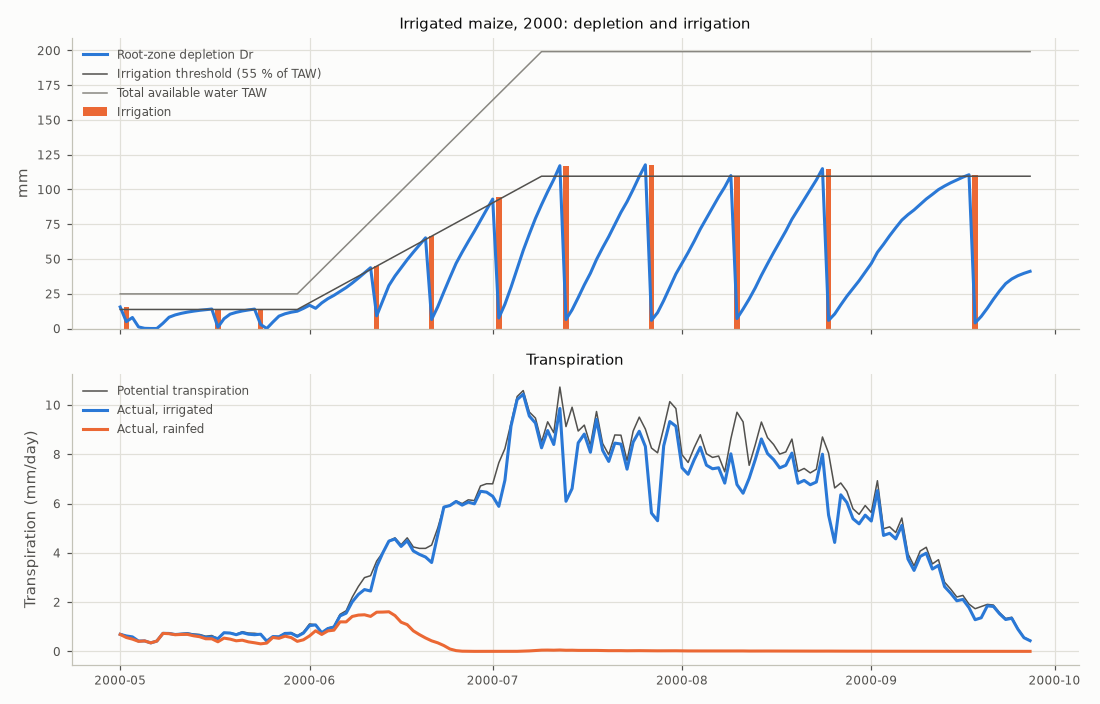
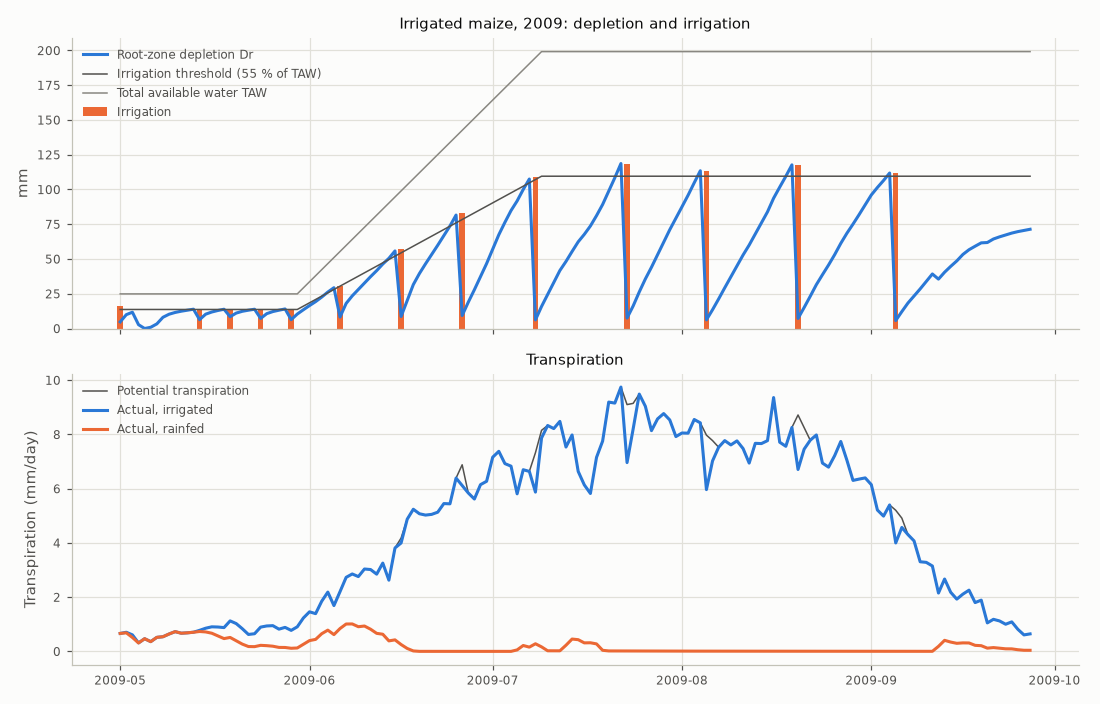
Regenerate the water balance and yield reports with the new field model
- Yield: irrigated relative yield 0.95 (06: 0.83); the remaining loss is
  oxygen stress just after irrigation. The report's explanation now
  follows the field model's settings.
- Water balance: irrigated transpiration 709 mm, soil evaporation 169 mm,
  irrigation 824 mm; a perfect rain forecast now saves 15 mm a season.
- The NWP report no longer says a perfect forecast saves no water.

diff --git a/fao_model/yield_report.py b/fao_model/yield_report.py
@@ -22,7 +22,7 @@ from . import data as weather_data
 from . import yield_response as yr
 from .crop import Crop, adjust_for_climate
 from .et import asce_pm
-from .field import FieldModel
+from .field import IRRIGATION_RATE, FieldModel
 from .plotting import CATEGORICAL, INK_2, MUTED, SERIES, SURFACE, style
 from .water_balance import SCENARIOS, run_field
 
@@ -257,14 +257,14 @@ def main(argv=None):
         "",
         f"- **Just after irrigation.** Irrigation days and the day after make up {s['day_share']:.0%} "
         f"of the season but {s['deficit_share']:.0%} of the transpiration deficit: Ta/Tp is "
-        f"{s['ratio_near']:.2f} on those days against {s['ratio_other']:.2f} on the others. The "
-        "whole refill is applied in one day, which wets the top layers above "
-        f"{crop.feddes_h2:g} cm, where the Feddes function reduces uptake for lack of oxygen.",
-        f"- **Before irrigation.** At high demand, uptake starts to fall once the head drops below "
-        f"{crop.feddes_h3_high:g} cm, which in this soil is {h3_depletion:.0%} depletion, close to the "
-        f"{crop.p:.0%} trigger. The "
-        "top of the root zone, where most roots are, dries faster than the root-zone average, and "
-        "uptake lost there is not made up from wetter, deeper layers.",
+        f"{s['ratio_near']:.2f} on those days against {s['ratio_other']:.2f} on the others. The refill "
+        f"({IRRIGATION_RATE:g} mm/hour) wets the top layers above {crop.feddes_h2:g} cm, where the "
+        "Feddes function reduces uptake for lack of oxygen.",
+        f"- **Between irrigations.** At high demand, the Feddes function lowers uptake below "
+        f"{crop.feddes_h3_high:g} cm, which in this soil is {h3_depletion:.0%} depletion, before the "
+        f"{crop.p:.0%} trigger. The top of the root zone, where most roots are, dries first; uptake is "
+        f"compensated from wetter layers until the root zone's stress index falls below ωc = "
+        f"{crop.omega_c:g} ([field model report](../field_model/README.md)).",
         "",
         "The irrigated field run again without oxygen stress (Feddes h1 = h2 = 0 cm) shows how much "
         "of the loss comes from it:",
@@ -281,8 +281,8 @@ def main(argv=None):
                      f"{np.mean([season_sum(name, y, 'irrigation') for y in years]):.0f} | {relative:.2f} |")
     lines += [
         "",
-        "Both causes are properties of the field model rather than of the yield response: a daily time "
-        "step with the whole refill on one day, and root water uptake without compensation.",
+        "How the field model's root uptake and irrigation settings change these numbers is shown in "
+        "the [field model report](../field_model/README.md).",
         "",
         "## 3. Yield and water productivity",
         "",

diff --git a/fao_model/nwp_skill.py b/fao_model/nwp_skill.py
@@ -298,9 +298,9 @@ def main(argv=None):
     lines += [
         "## 5. What this means for irrigation",
         "",
-        "The water balance report (section 6) found that even a perfect 3-day rain forecast saves no "
-        "irrigation water at this site in the maize season, because rain is rare then. Better forecasts "
-        "cannot beat that bound, so the irrigation rule is not rerun with these models.",
+        "The water balance report (section 6) found that even a perfect 3-day rain forecast saves little "
+        "irrigation water at this site in the maize season (about 2 %), because rain is rare then. Better "
+        "forecasts cannot beat that bound, so the irrigation rule is not rerun with these models.",
         "",
     ]
     (out / "README.md").write_text("\n".join(lines), encoding="utf-8")

diff --git a/reports/water_balance/README.md b/reports/water_balance/README.md
@@ -1,12 +1,12 @@
 # Crop water balance: grain maize
 
-Generated by `python -m fao_model.water_balance` on 2026-10-13.
+Generated by `python -m fao_model.water_balance` on 2026-11-12.
 
 - Weather: Konya Plain (Cumra), Turkiye, 1995-01-01 to 2024-12-31 (30 seasons); reference ET from this repo's daily ASCE-PM.
 - Crop: grain maize planted on 01 May, stages 30/40/50/30 days, Kcb 0.15/1.236/0.15 (mid-season value adjusted to the site's wind and humidity, FAO-56 eq. 70), roots 0.15-1.2 m, height up to 2.0 m.
 - Soil: loam (van Genuchten), 1.5 m column in 2.5 cm layers, free drainage at the bottom. Field capacity at -100 cm (θ = 0.227), wilting point θ = 0.061.
-- ET: FAO-56 dual crop coefficients give potential transpiration (Kcb·ETo) and soil evaporation (Ke·ETo); the Richards solver limits both: roots take water through the Feddes stress function, evaporation stops as the surface dries.
-- Scenarios: **rainfed**, and **irrigated** whenever the root-zone depletion reaches 55% of the total available water, refilling the root zone to field capacity.
+- ET: FAO-56 dual crop coefficients give potential transpiration (Kcb·ETo) and soil evaporation (Ke·ETo); the Richards solver limits both: roots take water through the Feddes stress function with compensation (ωc = 0.8), evaporation stops as the surface dries.
+- Scenarios: **rainfed**, and **irrigated** whenever the root-zone depletion reaches 55% of the total available water, refilling the root zone to field capacity at 6 mm/hour.
 
 ## 1. Mean seasonal water balance
 
@@ -15,53 +15,53 @@ Season totals in mm (planting to harvest), averaged over all seasons. The first 
 | | Rainfed | Irrigated |
 |---|---|---|
 | Rain | 51 | 51 |
-| Irrigation | 0 | 821 |
+| Irrigation | 0 | 824 |
 | Reference ET (ETo) | 885 | 885 |
 | Potential transpiration | 722 | 722 |
-| Actual transpiration | 56 | 667 |
+| Actual transpiration | 57 | 709 |
 | Potential soil evaporation | 398 | 398 |
-| Actual soil evaporation | 42 | 205 |
-| Drainage below 1.5 m | 1 | 7 |
+| Actual soil evaporation | 41 | 169 |
+| Drainage below 1.5 m | 1 | 6 |
 | Runoff | 0 | 0 |
-| Number of irrigations | 0.0 | 14.5 |
-| Actual / potential transpiration | 0.08 | 0.92 |
+| Number of irrigations | 0.0 | 13.1 |
+| Actual / potential transpiration | 0.08 | 0.98 |
 
 ## 2. Season by season
 
 | Season | Rain | ETo | Rainfed T/Tp | Irrigation | Irrigations | Irrigated T/Tp | Irrigated T + E |
 |---|---|---|---|---|---|---|---|
-| 1995 | 64 | 858 | 0.22 | 790 | 14 | 0.93 | 845 |
-| 1996 | 27 | 908 | 0.09 | 853 | 16 | 0.93 | 886 |
-| 1997 | 96 | 854 | 0.07 | 817 | 13 | 0.93 | 840 |
-| 1998 | 47 | 899 | 0.05 | 825 | 13 | 0.91 | 881 |
-| 1999 | 57 | 846 | 0.09 | 803 | 16 | 0.93 | 846 |
-| 2000 | 69 | 871 | 0.06 | 820 | 11 | 0.92 | 866 |
-| 2001 | 60 | 918 | 0.03 | 853 | 14 | 0.92 | 909 |
-| 2002 | 61 | 843 | 0.19 | 740 | 12 | 0.92 | 809 |
-| 2003 | 49 | 892 | 0.08 | 863 | 15 | 0.93 | 875 |
-| 2004 | 45 | 861 | 0.11 | 741 | 13 | 0.93 | 819 |
-| 2005 | 23 | 878 | 0.03 | 889 | 17 | 0.93 | 891 |
-| 2006 | 33 | 880 | 0.08 | 781 | 15 | 0.93 | 857 |
-| 2007 | 21 | 934 | 0.08 | 928 | 17 | 0.92 | 922 |
-| 2008 | 32 | 911 | 0.07 | 816 | 15 | 0.92 | 892 |
-| 2009 | 53 | 865 | 0.04 | 875 | 16 | 0.93 | 883 |
-| 2010 | 35 | 892 | 0.06 | 822 | 16 | 0.93 | 872 |
-| 2011 | 58 | 846 | 0.06 | 789 | 11 | 0.92 | 840 |
-| 2012 | 38 | 898 | 0.06 | 783 | 13 | 0.93 | 863 |
-| 2013 | 21 | 913 | 0.06 | 877 | 16 | 0.92 | 891 |
-| 2014 | 65 | 877 | 0.05 | 788 | 14 | 0.92 | 877 |
-| 2015 | 47 | 872 | 0.08 | 876 | 16 | 0.92 | 882 |
-| 2016 | 63 | 897 | 0.03 | 816 | 15 | 0.92 | 903 |
-| 2017 | 48 | 901 | 0.15 | 767 | 13 | 0.92 | 858 |
-| 2018 | 53 | 895 | 0.04 | 891 | 16 | 0.92 | 905 |
-| 2019 | 52 | 879 | 0.11 | 827 | 16 | 0.92 | 867 |
-| 2020 | 25 | 944 | 0.10 | 878 | 17 | 0.92 | 916 |
-| 2021 | 41 | 901 | 0.03 | 830 | 18 | 0.92 | 892 |
-| 2022 | 72 | 867 | 0.14 | 743 | 12 | 0.92 | 851 |
-| 2023 | 80 | 874 | 0.07 | 777 | 13 | 0.92 | 875 |
-| 2024 | 93 | 877 | 0.05 | 780 | 12 | 0.92 | 860 |
+| 1995 | 64 | 858 | 0.22 | 743 | 12 | 0.98 | 831 |
+| 1996 | 27 | 908 | 0.09 | 844 | 14 | 0.98 | 877 |
+| 1997 | 96 | 854 | 0.07 | 747 | 12 | 0.98 | 844 |
+| 1998 | 47 | 899 | 0.05 | 928 | 14 | 0.98 | 935 |
+| 1999 | 57 | 846 | 0.09 | 739 | 13 | 0.98 | 828 |
+| 2000 | 69 | 871 | 0.06 | 800 | 11 | 0.98 | 890 |
+| 2001 | 60 | 918 | 0.03 | 857 | 13 | 0.98 | 912 |
+| 2002 | 61 | 843 | 0.19 | 743 | 11 | 0.98 | 817 |
+| 2003 | 49 | 892 | 0.08 | 847 | 13 | 0.98 | 888 |
+| 2004 | 45 | 861 | 0.11 | 744 | 12 | 0.98 | 830 |
+| 2005 | 23 | 878 | 0.03 | 912 | 15 | 0.98 | 884 |
+| 2006 | 33 | 880 | 0.08 | 808 | 13 | 0.98 | 862 |
+| 2007 | 21 | 934 | 0.08 | 839 | 14 | 0.98 | 903 |
+| 2008 | 32 | 911 | 0.07 | 913 | 14 | 0.98 | 921 |
+| 2009 | 53 | 865 | 0.04 | 813 | 13 | 0.98 | 863 |
+| 2010 | 35 | 892 | 0.06 | 809 | 14 | 0.98 | 869 |
+| 2011 | 58 | 846 | 0.06 | 791 | 11 | 0.98 | 864 |
+| 2012 | 38 | 898 | 0.06 | 921 | 14 | 0.98 | 895 |
+| 2013 | 21 | 913 | 0.06 | 793 | 13 | 0.98 | 868 |
+| 2014 | 65 | 877 | 0.05 | 804 | 13 | 0.98 | 884 |
+| 2015 | 47 | 872 | 0.08 | 780 | 13 | 0.98 | 858 |
+| 2016 | 63 | 897 | 0.04 | 933 | 15 | 0.98 | 922 |
+| 2017 | 48 | 901 | 0.15 | 768 | 12 | 0.98 | 873 |
+| 2018 | 53 | 895 | 0.04 | 830 | 14 | 0.98 | 903 |
+| 2019 | 52 | 879 | 0.11 | 853 | 14 | 0.98 | 858 |
+| 2020 | 25 | 944 | 0.10 | 866 | 14 | 0.98 | 909 |
+| 2021 | 41 | 901 | 0.03 | 850 | 15 | 0.98 | 890 |
+| 2022 | 72 | 867 | 0.14 | 748 | 11 | 0.98 | 868 |
+| 2023 | 80 | 874 | 0.07 | 886 | 13 | 0.98 | 911 |
+| 2024 | 93 | 877 | 0.05 | 800 | 12 | 0.98 | 896 |
 
-## 3. An example season (2000, median irrigation)
+## 3. An example season (2009, median irrigation)
 
 ![Example season](example_season.png)
 
@@ -73,29 +73,29 @@ pyfao56 implements the FAO-56 water balance as a bucket model: a two-stage evapo
 
 | | Rainfed, this model | Rainfed, pyfao56 | Irrigated, this model | Irrigated, pyfao56 |
 |---|---|---|---|---|
-| Transpiration | 56 | 64 | 667 | 696 |
-| Soil evaporation | 42 | 41 | 205 | 201 |
-| Irrigation | 0 | 0 | 821 | 854 |
-| Number of irrigations | 0.0 | 0.0 | 14.5 | 14.8 |
-| Drainage / deep percolation | 1 | 0 | 7 | 4 |
+| Transpiration | 57 | 63 | 709 | 697 |
+| Soil evaporation | 41 | 41 | 169 | 203 |
+| Irrigation | 0 | 0 | 824 | 855 |
+| Number of irrigations | 0.0 | 0.0 | 13.1 | 15.0 |
+| Drainage / deep percolation | 1 | 0 | 6 | 4 |
 
 Season by season (this model − pyfao56):
 
 | | Bias (mm) | Relative bias (%) | r |
 |---|---|---|---|
-| Actual ET, rainfed | -6 | -6.1 | 1.00 |
-| Actual ET, irrigated | -25 | -2.8 | 0.86 |
-| Irrigation, irrigated | -33 | -3.9 | 0.50 |
+| Actual ET, rainfed | -6 | -5.8 | 1.00 |
+| Actual ET, irrigated | -22 | -2.4 | 0.77 |
+| Irrigation, irrigated | -31 | -3.7 | 0.57 |
 
 ![Comparison with pyfao56](pyfao56.png)
 
 The season means agree closely. Single seasons differ more in irrigation because it comes as discrete refills of up to about 110 mm (55 % of the available water at full rooting depth): one refill more or less before harvest moves a season's total by that much. The remaining differences come from the model structure:
 
 - irrigation here refills the root zone to field capacity, while pyfao56 also adds the day's estimated ET;
-- transpiration stress here follows the Feddes function of the local pressure head, in pyfao56 a linear function of root-zone depletion;
+- transpiration stress here follows the Feddes function of the local pressure head, with compensation between layers, in pyfao56 a linear function of root-zone depletion;
 - here water moves between layers by Richards flow and drains below the roots after each refill; pyfao56 drains instantly to field capacity.
 
-Soil evaporation agrees with the 2.5 cm top layer used here; 5 cm layers gave about 30 % more.
+Soil evaporation is 102% of pyfao56's in the rainfed field and 83% in the irrigated one, where irrigation at 6 mm/hour soaks below the evaporating top layers. It depends on the top layer's thickness: 5 cm layers gave about 30 % more than the 2.5 cm used here.
 
 ## 5. Topsoil water content against ERA5
 
@@ -103,7 +103,7 @@ The rainfed field's water content in the top 7.5 cm against ERA5's 0-7 cm soil m
 
 | Daily values | Bias (m³/m³) | RMSE (m³/m³) | r | r of monthly means |
 |---|---|---|---|---|
-| 10958 days | -0.071 | 0.086 | 0.80 | 0.97 |
+| 10958 days | -0.072 | 0.086 | 0.80 | 0.97 |
 
 ![Topsoil water content against ERA5](soil_moisture_era5.png)
 
@@ -114,11 +114,11 @@ Same irrigated field and trigger, but a due irrigation is postponed when at leas
 
 | | No forecast | Perfect forecast | TimesFM 2.5 | Damped anomaly persistence |
 |---|---|---|---|---|
-| Irrigation (mm) | 818 | 820 | 818 | 818 |
-| Number of irrigations | 14.8 | 14.8 | 14.8 | 14.8 |
-| Postponed irrigation days | 0.0 | 0.5 | 0.0 | 0.0 |
-| Actual / potential transpiration | 0.922 | 0.922 | 0.922 | 0.922 |
-| Drainage below 1.5 m (mm) | 8.2 | 8.3 | 8.2 | 8.2 |
-| Irrigations followed by ≥ 10 mm of rain within 3 days, all 10 seasons | 3 | 0 | 3 | 3 |
+| Irrigation (mm) | 831 | 816 | 831 | 831 |
+| Number of irrigations | 13.3 | 13.2 | 13.3 | 13.3 |
+| Postponed irrigation days | 0.0 | 0.3 | 0.0 | 0.0 |
+| Actual / potential transpiration | 0.981 | 0.981 | 0.981 | 0.981 |
+| Drainage below 1.5 m (mm) | 7.8 | 5.4 | 7.8 | 7.8 |
+| Irrigations followed by ≥ 10 mm of rain within 3 days, all 10 seasons | 2 | 0 | 2 | 2 |
 
 Rain of 10 mm or more within three days is rare in this season (see the forecast skill report), which bounds what forecast-based postponing can save at this site.

diff --git a/reports/yield/README.md b/reports/yield/README.md
@@ -1,6 +1,6 @@
 # Yield response to water: grain maize
 
-Generated by `python -m fao_model.yield_report` on 2026-10-17.
+Generated by `python -m fao_model.yield_report` on 2026-11-12.
 
 - Weather: Konya Plain (Cumra), Turkiye, 1995-01-01 to 2024-12-31 (30 seasons).
 - Fields: the rainfed and irrigated maize fields of the [water balance report](../water_balance/README.md) (FAO-56 dual crop coefficients over the Richards solver; irrigation refills the root zone at 55% depletion). The first season starts from an assumed soil profile, the others from the simulated one.
@@ -22,14 +22,14 @@ Mean Ya/Yx over the seasons by method (lowest and highest season in brackets):
 
 | Method | Rainfed | Irrigated |
 |---|---|---|
-| By growth period (FAO-33) | 0.00 (0.00-0.00) | 0.83 (0.80-0.89) |
-| Whole season, Ky = 1.25 | 0.00 (0.00-0.08) | 0.93 (0.91-0.93) |
-| Periods on the FAO-56 stages (FAO-66 Table 2) | 0.01 (0.00-0.09) | 0.89 (0.85-0.91) |
-| By growth period, transpiration only | 0.00 (0.00-0.00) | 0.81 (0.78-0.87) |
+| By growth period (FAO-33) | 0.00 (0.00-0.00) | 0.95 (0.93-0.96) |
+| Whole season, Ky = 1.25 | 0.01 (0.00-0.09) | 0.98 (0.98-0.98) |
+| Periods on the FAO-56 stages (FAO-66 Table 2) | 0.01 (0.00-0.10) | 0.97 (0.96-0.98) |
+| By growth period, transpiration only | 0.00 (0.00-0.00) | 0.95 (0.93-0.96) |
 
 - **Rainfed maize fails at this site:** about 51 mm of rain falls in the season against 885 mm of reference ET, and the relative yield is 0.00.
-- **The irrigated field still loses 17%** by growth period and 7% with the whole-season Ky. The largest loss is in the flowering period (Ky 1.50, section 2).
-- **The placement of the periods matters:** with Ky placed on the FAO-56 stages, which puts the flowering value on the development stage, the mean is 0.89 instead of 0.83.
+- **The irrigated field still loses 5%** by growth period and 2% with the whole-season Ky. The largest loss is in the flowering period (Ky 1.50, section 2).
+- **The placement of the periods matters:** with Ky placed on the FAO-56 stages, which puts the flowering value on the development stage, the mean is 0.97 instead of 0.95.
 
 ![Relative yield by season](relative_yield.png)
 
@@ -41,24 +41,24 @@ Points above the whole-season line lost more yield than their seasonal ET defici
 
 | Period | Ky | ETa / ETx | Relative yield of the period |
 |---|---|---|---|
-| Vegetative | 0.40 | 0.971 | 0.988 |
-| Flowering | 1.50 | 0.928 | 0.892 |
-| Yield formation | 0.50 | 0.907 | 0.954 |
-| Ripening | 0.20 | 0.944 | 0.989 |
+| Vegetative | 0.40 | 0.993 | 0.997 |
+| Flowering | 1.50 | 0.976 | 0.964 |
+| Yield formation | 0.50 | 0.979 | 0.989 |
+| Ripening | 0.20 | 0.988 | 0.998 |
 
 Why a field irrigated whenever it needs water is still stressed:
 
-- **Just after irrigation.** Irrigation days and the day after make up 19% of the season but 46% of the transpiration deficit: Ta/Tp is 0.77 on those days against 0.95 on the others. The whole refill is applied in one day, which wets the top layers above -30 cm, where the Feddes function reduces uptake for lack of oxygen.
-- **Before irrigation.** At high demand, uptake starts to fall once the head drops below -325 cm, which in this soil is 49% depletion, close to the 55% trigger. The top of the root zone, where most roots are, dries faster than the root-zone average, and uptake lost there is not made up from wetter, deeper layers.
+- **Just after irrigation.** Irrigation days and the day after make up 17% of the season but 99% of the transpiration deficit: Ta/Tp is 0.88 on those days against 1.00 on the others. The refill (6 mm/hour) wets the top layers above -30 cm, where the Feddes function reduces uptake for lack of oxygen.
+- **Between irrigations.** At high demand, the Feddes function lowers uptake below -325 cm, which in this soil is 49% depletion, before the 55% trigger. The top of the root zone, where most roots are, dries first; uptake is compensated from wetter layers until the root zone's stress index falls below ωc = 0.8 ([field model report](../field_model/README.md)).
 
 The irrigated field run again without oxygen stress (Feddes h1 = h2 = 0 cm) shows how much of the loss comes from it:
 
 | Irrigated field | Ta / Tp | Ta / Tp on irrigation days and the day after | Irrigation (mm) | Ya / Yx |
 |---|---|---|---|---|
-| As modelled | 0.924 | 0.77 | 821 | 0.83 |
-| Without oxygen stress | 0.947 | 0.95 | 836 | 0.89 |
+| As modelled | 0.982 | 0.88 | 824 | 0.95 |
+| Without oxygen stress | 1.000 | 1.00 | 841 | 1.00 |
 
-Both causes are properties of the field model rather than of the yield response: a daily time step with the whole refill on one day, and root water uptake without compensation.
+How the field model's root uptake and irrigation settings change these numbers is shown in the [field model report](../field_model/README.md).
 
 ## 3. Yield and water productivity
 
@@ -66,37 +66,37 @@ Absolute yields need the maximum yield Yx, assumed here to be 13 t/ha. For compa
 
 | Season | Rain (mm) | Irrigation (mm) | ETa / ETx | Ya / Yx | Yield (t/ha) | ET water productivity (kg/m³) | Irrigation water productivity (kg/m³) |
 |---|---|---|---|---|---|---|---|
-| 1995 | 64 | 790 | 0.948 | 0.89 | 11.5 | 1.37 | 1.46 |
-| 1996 | 27 | 853 | 0.943 | 0.82 | 10.7 | 1.20 | 1.25 |
-| 1997 | 96 | 817 | 0.945 | 0.82 | 10.7 | 1.27 | 1.31 |
-| 1998 | 46 | 825 | 0.931 | 0.81 | 10.6 | 1.20 | 1.28 |
-| 1999 | 57 | 803 | 0.948 | 0.85 | 11.1 | 1.31 | 1.38 |
-| 2000 | 69 | 820 | 0.935 | 0.81 | 10.6 | 1.22 | 1.29 |
-| 2001 | 60 | 853 | 0.940 | 0.80 | 10.4 | 1.14 | 1.21 |
-| 2002 | 61 | 740 | 0.940 | 0.84 | 10.9 | 1.35 | 1.47 |
-| 2003 | 49 | 863 | 0.944 | 0.84 | 11.0 | 1.25 | 1.27 |
-| 2004 | 45 | 741 | 0.941 | 0.83 | 10.7 | 1.31 | 1.45 |
-| 2005 | 23 | 889 | 0.944 | 0.84 | 10.9 | 1.23 | 1.23 |
-| 2006 | 33 | 781 | 0.943 | 0.85 | 11.0 | 1.29 | 1.41 |
-| 2007 | 21 | 928 | 0.938 | 0.81 | 10.5 | 1.14 | 1.14 |
-| 2008 | 32 | 816 | 0.939 | 0.82 | 10.7 | 1.20 | 1.31 |
-| 2009 | 53 | 875 | 0.946 | 0.85 | 11.1 | 1.25 | 1.26 |
-| 2010 | 35 | 822 | 0.943 | 0.84 | 11.0 | 1.26 | 1.33 |
-| 2011 | 58 | 789 | 0.939 | 0.84 | 10.9 | 1.29 | 1.38 |
-| 2012 | 38 | 783 | 0.940 | 0.84 | 10.9 | 1.26 | 1.39 |
-| 2013 | 21 | 877 | 0.939 | 0.81 | 10.5 | 1.18 | 1.20 |
-| 2014 | 65 | 788 | 0.941 | 0.83 | 10.8 | 1.23 | 1.37 |
-| 2015 | 47 | 876 | 0.943 | 0.84 | 10.9 | 1.23 | 1.24 |
-| 2016 | 63 | 816 | 0.943 | 0.83 | 10.8 | 1.19 | 1.32 |
-| 2017 | 48 | 767 | 0.935 | 0.82 | 10.6 | 1.24 | 1.39 |
-| 2018 | 53 | 891 | 0.940 | 0.81 | 10.5 | 1.16 | 1.18 |
-| 2019 | 52 | 827 | 0.942 | 0.84 | 11.0 | 1.26 | 1.32 |
-| 2020 | 25 | 878 | 0.937 | 0.82 | 10.6 | 1.16 | 1.21 |
-| 2021 | 41 | 830 | 0.942 | 0.83 | 10.8 | 1.21 | 1.30 |
-| 2022 | 72 | 743 | 0.938 | 0.84 | 10.9 | 1.28 | 1.47 |
-| 2023 | 80 | 777 | 0.938 | 0.84 | 10.9 | 1.25 | 1.41 |
-| 2024 | 93 | 780 | 0.939 | 0.82 | 10.6 | 1.24 | 1.36 |
-| Mean | | | | 0.83 | 10.8 | 1.24 | 1.32 |
+| 1995 | 64 | 743 | 0.986 | 0.95 | 12.3 | 1.48 | 1.66 |
+| 1996 | 27 | 844 | 0.986 | 0.96 | 12.4 | 1.42 | 1.47 |
+| 1997 | 96 | 747 | 0.986 | 0.95 | 12.4 | 1.47 | 1.66 |
+| 1998 | 46 | 928 | 0.983 | 0.95 | 12.3 | 1.32 | 1.33 |
+| 1999 | 57 | 739 | 0.987 | 0.96 | 12.4 | 1.50 | 1.69 |
+| 2000 | 69 | 800 | 0.984 | 0.95 | 12.3 | 1.38 | 1.54 |
+| 2001 | 60 | 857 | 0.983 | 0.94 | 12.2 | 1.34 | 1.43 |
+| 2002 | 61 | 743 | 0.986 | 0.95 | 12.4 | 1.51 | 1.66 |
+| 2003 | 49 | 847 | 0.986 | 0.96 | 12.4 | 1.40 | 1.47 |
+| 2004 | 45 | 744 | 0.986 | 0.95 | 12.4 | 1.49 | 1.66 |
+| 2005 | 23 | 912 | 0.985 | 0.95 | 12.4 | 1.40 | 1.36 |
+| 2006 | 33 | 808 | 0.985 | 0.96 | 12.5 | 1.45 | 1.55 |
+| 2007 | 21 | 839 | 0.983 | 0.95 | 12.3 | 1.36 | 1.46 |
+| 2008 | 32 | 913 | 0.984 | 0.95 | 12.4 | 1.34 | 1.35 |
+| 2009 | 53 | 813 | 0.985 | 0.95 | 12.3 | 1.43 | 1.52 |
+| 2010 | 35 | 809 | 0.987 | 0.94 | 12.2 | 1.41 | 1.51 |
+| 2011 | 58 | 791 | 0.985 | 0.94 | 12.2 | 1.41 | 1.54 |
+| 2012 | 38 | 921 | 0.985 | 0.95 | 12.4 | 1.38 | 1.35 |
+| 2013 | 21 | 793 | 0.985 | 0.95 | 12.4 | 1.43 | 1.56 |
+| 2014 | 65 | 804 | 0.984 | 0.95 | 12.4 | 1.40 | 1.54 |
+| 2015 | 47 | 780 | 0.986 | 0.96 | 12.4 | 1.45 | 1.59 |
+| 2016 | 63 | 933 | 0.984 | 0.95 | 12.3 | 1.33 | 1.32 |
+| 2017 | 48 | 768 | 0.984 | 0.95 | 12.3 | 1.41 | 1.60 |
+| 2018 | 53 | 830 | 0.985 | 0.95 | 12.4 | 1.37 | 1.49 |
+| 2019 | 52 | 853 | 0.986 | 0.96 | 12.4 | 1.45 | 1.46 |
+| 2020 | 25 | 866 | 0.984 | 0.95 | 12.3 | 1.36 | 1.42 |
+| 2021 | 41 | 850 | 0.985 | 0.93 | 12.1 | 1.36 | 1.42 |
+| 2022 | 72 | 748 | 0.985 | 0.94 | 12.2 | 1.41 | 1.63 |
+| 2023 | 80 | 886 | 0.985 | 0.95 | 12.4 | 1.36 | 1.40 |
+| 2024 | 93 | 800 | 0.986 | 0.95 | 12.3 | 1.38 | 1.54 |
+| Mean | | | | 0.95 | 12.3 | 1.41 | 1.51 |
 
 - ET water productivity: yield per cubic metre of actual crop ET (transpiration and soil evaporation).
 - Irrigation water productivity: the yield gained over the rainfed field per cubic metre of irrigation.

diff --git a/reports/nwp/README.md b/reports/nwp/README.md
@@ -95,4 +95,4 @@ Wet day: at least 1 mm tomorrow (147 of 864 days). Rain event: at least 10 mm wi
 
 ## 5. What this means for irrigation
 
-The water balance report (section 6) found that even a perfect 3-day rain forecast saves no irrigation water at this site in the maize season, because rain is rare then. Better forecasts cannot beat that bound, so the irrigation rule is not rerun with these models.
+The water balance report (section 6) found that even a perfect 3-day rain forecast saves little irrigation water at this site in the maize season (about 2 %), because rain is rare then. Better forecasts cannot beat that bound, so the irrigation rule is not rerun with these models.
